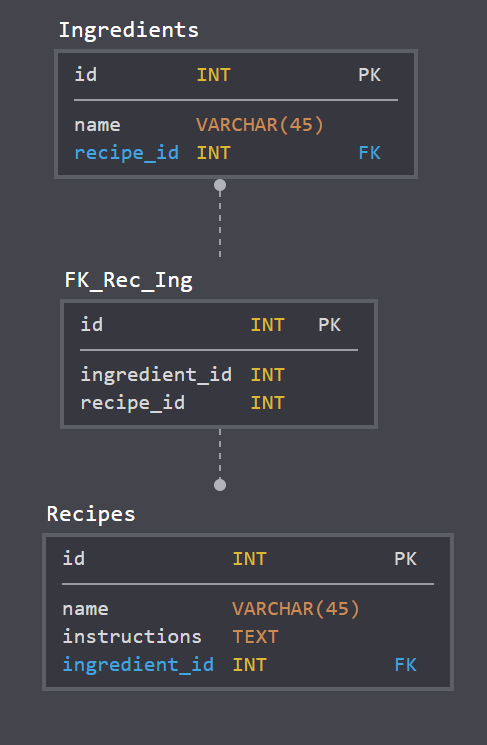
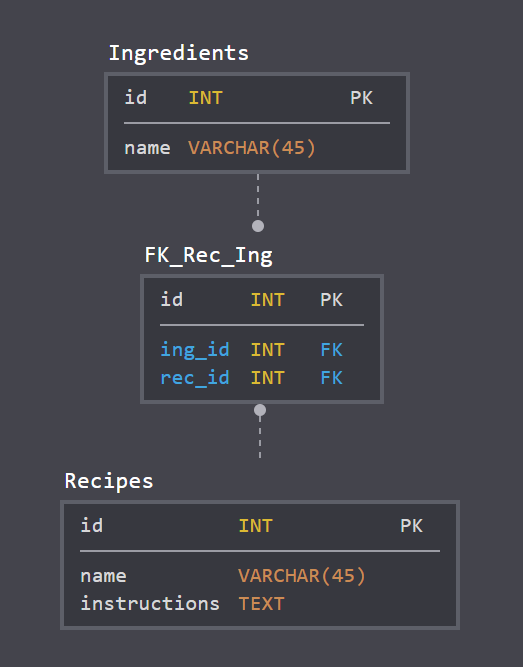
updated specc, new sql, new schema

diff --git a/README.md b/README.md
@@ -5,6 +5,9 @@
 <img src="https://upload.wikimedia.org/wikipedia/commons/d/d9/Node.js_logo.svg" height="70" /> 
 <img src="https://discord.js.org/static/logo.svg" height="70" />
 
+## Úvod
+Cílem tohoto dokumentu je shrnout a specifikovat požadavky a funkce služby chef-bot. Vymezuje potřeby zúčastněných stran a cílových uživatelů.
+
 ## Funkční specifikace
 * Cílem je vytvořit program, který se napojuje na komunikační platformu Discord a na základě vstupu od uživatele bude vracet recepty jídel
 * Vstupem bude seznam ingrediencí, které má uživatel dostupné
@@ -20,7 +23,13 @@
 
 <img src="schema.png" alt="Schéma databáze" height="480" />
 
-### Vývoj 
+### Vývoj
 * Programování bota pomocí knihovny Discord.js pro interakci s Discord API.
 * Server s Node.js, poskytující API databáze receptů.
 * DevOps pomocí GitHub a Trello.
+
+### Použité technologie
+* Discord
+* Discord.js
+* node.js
+* MySQL
